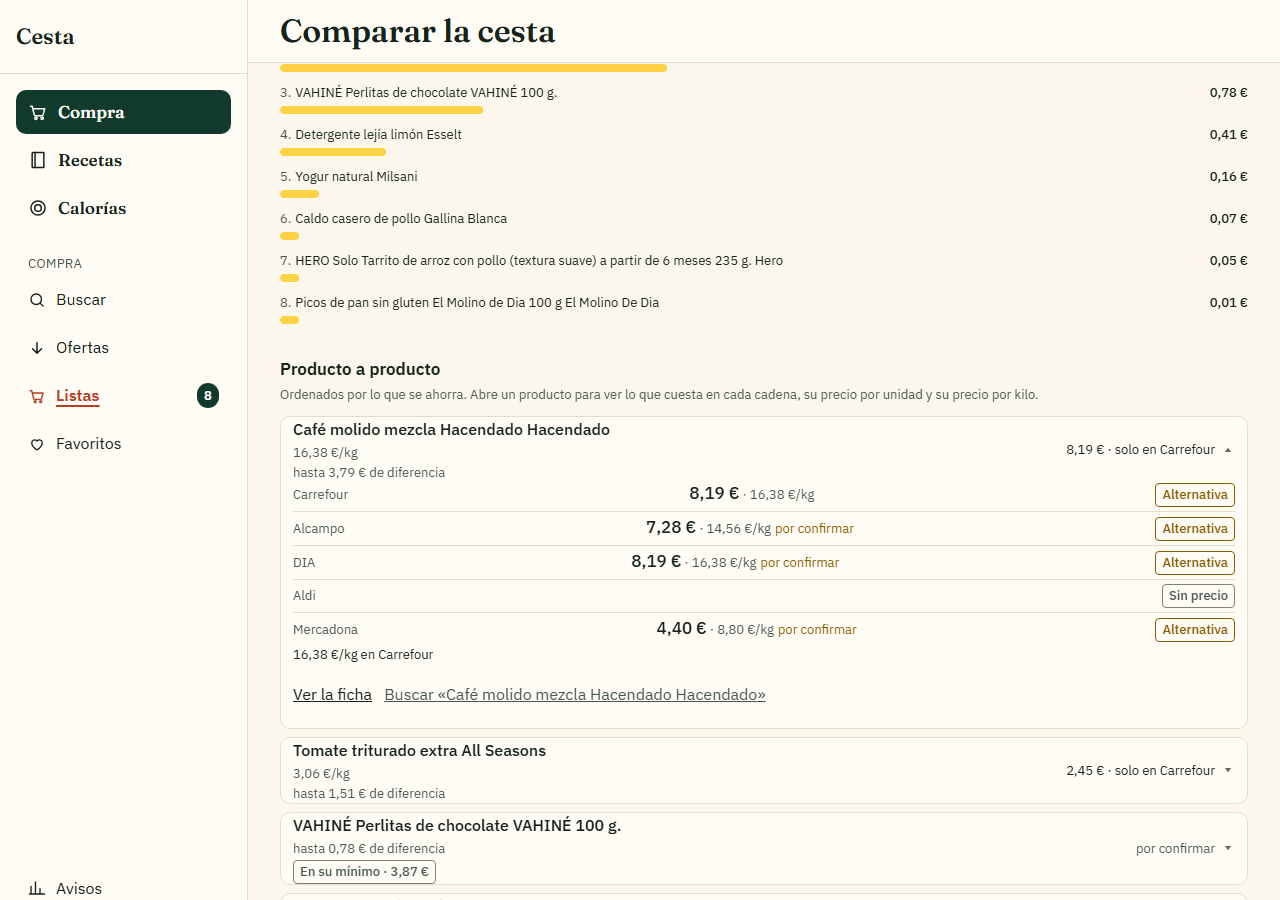
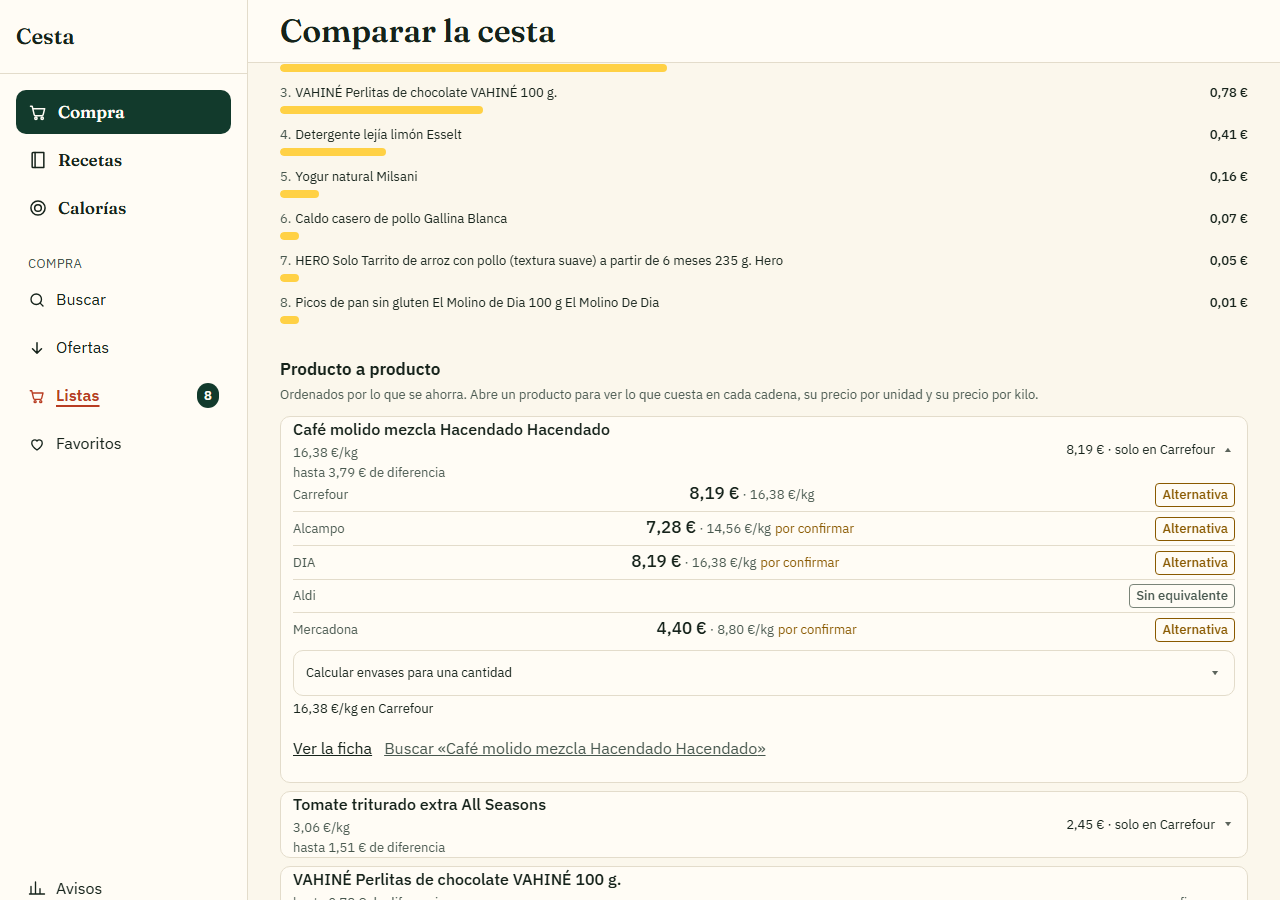
Caso Cesta: multipack, envases enteros y capturas del 11/11

diff --git a/docs/CASO-CESTA.md b/docs/CASO-CESTA.md
@@ -93,7 +93,7 @@ En el desglose, cada cadena lleva su precio y una etiqueta que dice **qué** es 
 - **Alternativa**: un equivalente (misma categoría y formato, marca distinta, o nombre parecido
   sin GTIN). Se puede elegir, pero no es el mismo producto; **no suma en el total** hasta que se
   confirma, y el €/kg permite compararlo con el original.
-- **Sin precio**: esa cadena no tiene hoy el producto. No es un cero: no entra en su total.
+- **Sin equivalente**: esa cadena no tiene hoy un producto que cubra lo pedido. No es un cero: no entra en su total, y no se pinta 0 €.
 
 El **€/kg o €/L** va pegado al precio de cada fila; si el formato no trae medida, se dice «sin
 medida» en vez de inventar una unidad. Así, dos precios solo se comparan cuando hablan de lo mismo.
@@ -148,6 +148,33 @@ Base de la suma de máximos: **23,80 €** → **28,5 %** de ahorro posible; la 
 **16,38 €/kg** en Carrefour y **8,80 €/kg** en Mercadona; el detergente a **0,58 €/l** frente a
 **0,55 €/l**. Y el producto que vuelve a su mínimo lleva su marca: «En su mínimo · 3,87 €».
 
+
+## 4 bis. Multipack y envases enteros
+
+Un pack de **6 × 125 g** no se vende por kilos. El paquete trae **750 g** y cuesta **2,40 €**, así
+que su precio normalizado es:
+
+`
+2,40 € / 0,750 kg = 3,20 €/kg
+`
+
+Y si se necesitan **1 kg**, no se compra «1,33 packs»: los envases se compran enteros.
+
+`
+envases = techo(1 kg / 0,750 kg) = 2
+coste   = 2 × 2,40 € = 4,80 €
+sobra   = 2 × 0,750 kg − 1 kg = 0,50 kg
+`
+
+La comparativa enseña el €/kg o €/L **al lado del precio** y, al abrir un producto, una
+**calculadora de envases**: se escribe la cantidad que se necesita y cada cadena dice cuántos
+envases enteros hacen falta, lo que se paga y lo que sobra. Si la cantidad y el envase no son de
+la misma magnitud (kg contra l) o falta el tamaño, **no se calcula**: se dice, en vez de inventar
+una compra fraccionaria.
+
+Y una cadena que no tiene el producto **no se pinta como 0 €**: su fila dice «Sin equivalente» y
+no entra en ningún total. El cero se reserva para lo que de verdad cuesta cero, que no es el caso.
+
 ## 5. Resultado
 
 - **La cifra grande existe y es explicable**: 6,78 € de ahorro posible (−28 %) en una cesta de
@@ -155,7 +182,7 @@ Base de la suma de máximos: **23,80 €** → **28,5 %** de ahorro posible; la 
 - **Los totales por cadena** dicen lo que cada una tiene hoy: Carrefour, 18,73 € con **Encontrados 7/8**; las demás, sin precio para esta lista. Una cadena incompleta no se presenta como
   ganadora.
 - **El gráfico de barras** enseña la diferencia de cada producto en el mismo orden que el desglose: la barra más larga es donde más hay que decidir.
-- **El €/kg y el €/l** hacen la comparación honesta: el mismo producto, no dos formatos distintos.
+- **El €/kg y el €/l** hacen la comparación honesta: el mismo producto, no dos formatos distintos; y la calculadora de envases dice cuántos packs hay que comprar para una cantidad (6 × 125 g a 2,40 € son 3,20 €/kg; para 1 kg, 2 packs y 4,80 €).
 - **La app se puede usar de punta a punta** con estos datos: lista → comparativa → sugerencias
   (repetir la compra semanal, con lo que falta en casa) → exportar CSV.
 

diff --git a/ESTADO-AGENTE.md b/ESTADO-AGENTE.md
@@ -1,8 +1,8 @@
 titulo: Cesta — superapp de compra, recetas y calorias
-resumen: Sesión del 10/11 (noche): **totales por cadena con «Encontrados N/M»** y la más barata marcada; **€/kg y €/L pegados al precio** en cada fila del desglose, con etiquetas **«Mismo producto / Alternativa / Sin precio»**; y la API manda también el €/unidad de las alternativas (antes se quedaba en el servidor y la pantalla decía «sin medida» aunque el catálogo lo tuviera). `docs/CASO-CESTA.md` con el ejemplo numérico real de ahorro (6,78 € sobre 23,80 €, −28 %), fuentes de precios y las tres etiquetas explicadas. Capturas nuevas a 390 y 1280 de lista, comparativa, gráfico del ahorro, **detalle de un producto con las etiquetas** y sugerencias (390×844 y 1280×900). Pruebas web **275** vitest, 404 node, tipos/lint/build limpios (`sw 2026111021`); suite Python completa: **1.505 verdes, 813 saltadas, 0 rojos, 9 min 57 s**.
+resumen: Sesión del 11/11: **multipack y envases enteros** en la comparativa. Al abrir un producto hay una calculadora de envases: se escribe la cantidad necesaria (1 kg, 750 ml, 3 ud) y cada cadena dice cuántos envases enteros hacen falta, lo que se paga y lo que sobra; el ejemplo del informe —6 × 125 g a 2,40 € son 3,20 €/kg; para 1 kg, 2 packs, 4,80 € y 0,50 kg de sobrante— está en `logica/envases.ts` con sus pruebas. La cuenta no mezcla masa y volumen ni inventa compras fraccionarias. Las cadenas sin producto dicen **«Sin equivalente»** y no se pintan como 0 €. Capturas nuevas a 390 y 1280 del detalle con etiquetas y de la calculadora. `docs/CASO-CESTA.md` con la sección de multipack y el ejemplo numérico. Pruebas web **281** vitest, 404 node, tipos/lint/build limpios (`sw 2026111110`); suite Python completa: **1.505 verdes, 813 saltadas, 0 rojos, 11 min 24 s**.
 estado: en-curso
-tarea: Encontrados N/M, etiquetas de identidad y €/unidad en alternativas aplicados y capturados; informe con ejemplo numérico real
+tarea: calculadora de envases, «Sin equivalente» y ejemplo de multipack documentado; producción sirviendo el paquete nuevo
 nivel: 2
 siguiente: David decide las tres de `docs/decisiones-interfaz-2026-11-09.md` (duplicado de Carrefour con el mismo EAN, base de los porcentajes, contador vs lista en la receta), las de despliegue de §8 (móvil M1/M2/M3, respaldo programado, CESTA_REGISTRO, poda de gold) y la vara de Alcampo. Para el portfolio: decidir si se comparte el repositorio con un invitado o se publica una demo más allá de la tailnet.
 bloqueado: las decisiones de interfaz, despliegue y vara de Alcampo; el mapeo automático de supers sigue en espera de decisión y de una exportación RGPD real.
-fecha: 2026-11-10
+fecha: 2026-11-11

diff --git a/docs/DIA-A-DIA-2026-11-09.md b/docs/DIA-A-DIA-2026-11-09.md
@@ -201,3 +201,20 @@ explicación abierta en escritorio. Los anchos se comprobaron con Pillow: 390×8
 
 El mini-informe docs/CASO-CESTA.md recoge problema, datos, normalización, cálculo del ahorro y
 resultado con las cifras del catálogo del 10/11.
+
+
+## Vuelta del 11/11: multipack, envases enteros y «sin equivalente»
+
+La comparativa ya no se queda en el €/kg y el €/L. Al abrir un producto hay una **calculadora de
+envases**: se escribe la cantidad que se necesita (1 kg, 750 ml, 3 ud) y cada cadena dice cuántos
+**envases enteros** hacen falta, lo que se paga por ellos y lo que sobra. Un pack de 6 × 125 g
+(750 g) a 2,40 € es 3,20 €/kg; para 1 kg son **2 envases, 4,80 € y 0,50 kg de sobrante** — el
+ejemplo está en docs/CASO-CESTA.md y en las pruebas de logica/envases.ts. La cuenta no mezcla
+masa con volumen ni inventa una compra fraccionaria: si falta el tamaño o no son la misma
+magnitud, se dice.
+
+Y una cadena que no tiene el producto ya no se pinta como «sin precio»: su fila dice **«Sin
+equivalente»** y no entra en ningún total. El 0 € no se usa para decir «no hay».
+
+Capturas nuevas: docs/portfolio/{390,1280}-comparativa-envases.png y el detalle con las
+etiquetas actualizadas.

diff --git a/PORTFOLIO.md b/PORTFOLIO.md
@@ -62,8 +62,11 @@ en su **mínimo histórico** se marca. Nada de «0,00 €» cuando falta un dato
 **Gráfico del ahorro** — la diferencia de cada producto, en barras y ordenada:
 [390 px](docs/portfolio/390-comparativa-grafico.png) · [1280 px](docs/portfolio/1280-comparativa-grafico.png).
 
-**Detalle de un producto** — €/kg junto al precio y etiquetas «Mismo producto / Alternativa / Sin precio»:
+**Detalle de un producto** — €/kg junto al precio y etiquetas «Mismo producto / Alternativa / Sin equivalente»:
 [390 px](docs/portfolio/390-comparativa-detalle.png) · [1280 px](docs/portfolio/1280-comparativa-detalle.png).
+
+**Calculadora de envases** — 1 kg con packs de 0,5 kg: dos envases y lo que cuestan:
+[390 px](docs/portfolio/390-comparativa-envases.png) · [1280 px](docs/portfolio/1280-comparativa-envases.png).
 
 **Más detalle:** [producto a producto con €/kg](docs/portfolio/02b-productos.png) ·
 [explicación del cálculo abierta](docs/portfolio/1280-comparativa-calculo.png) ·
